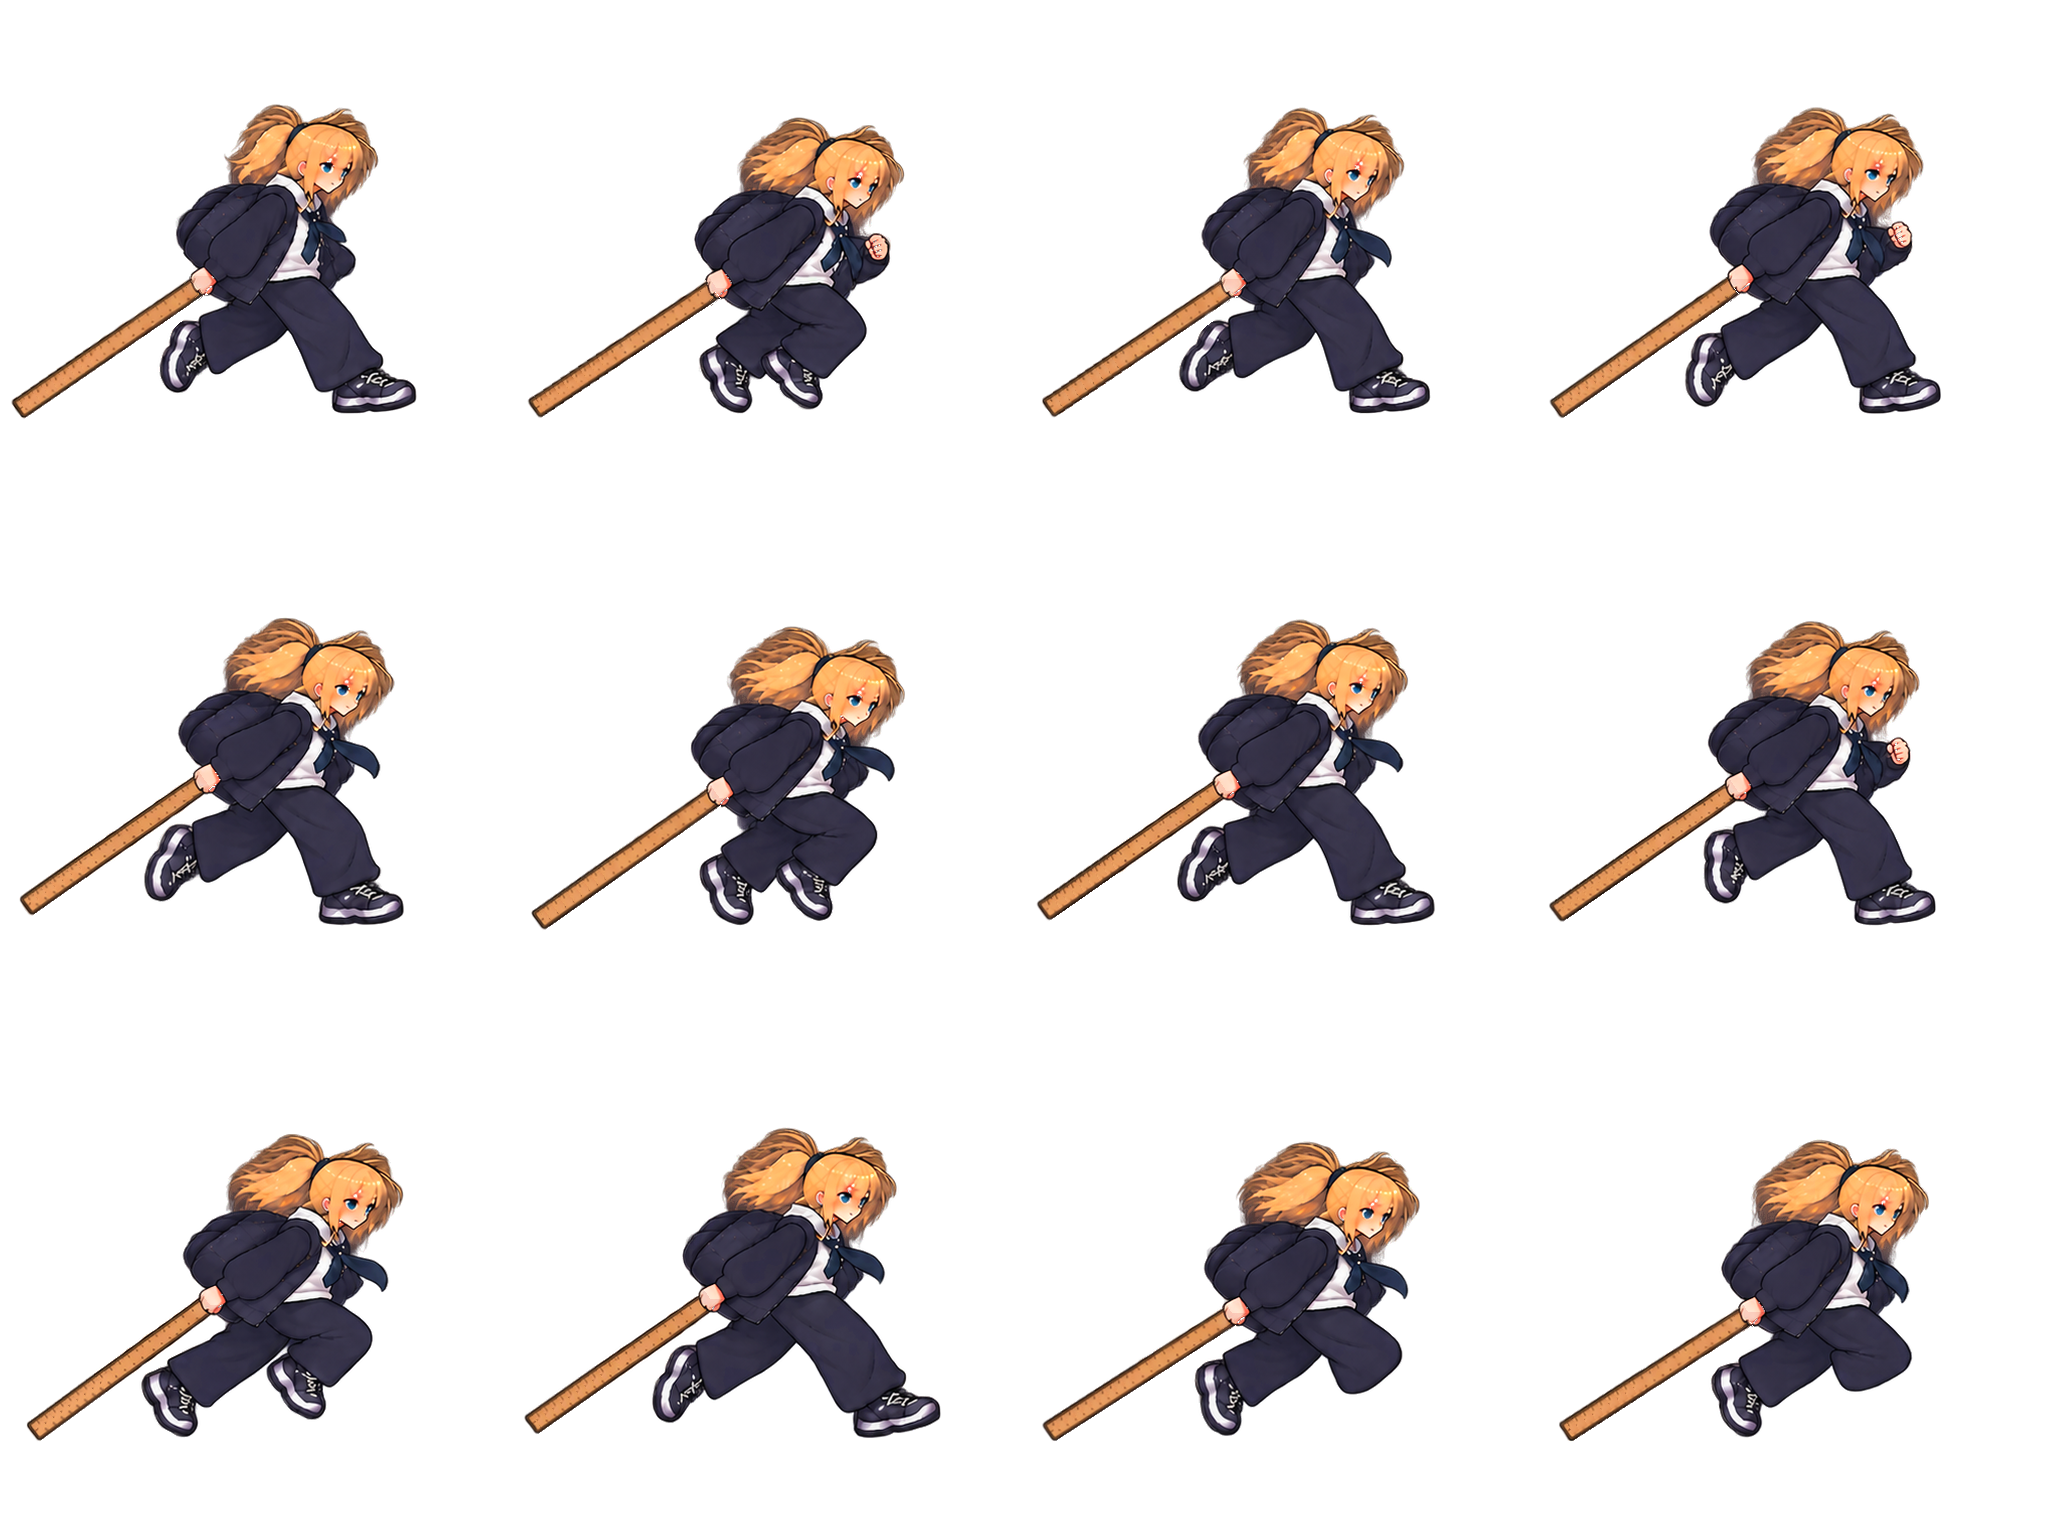
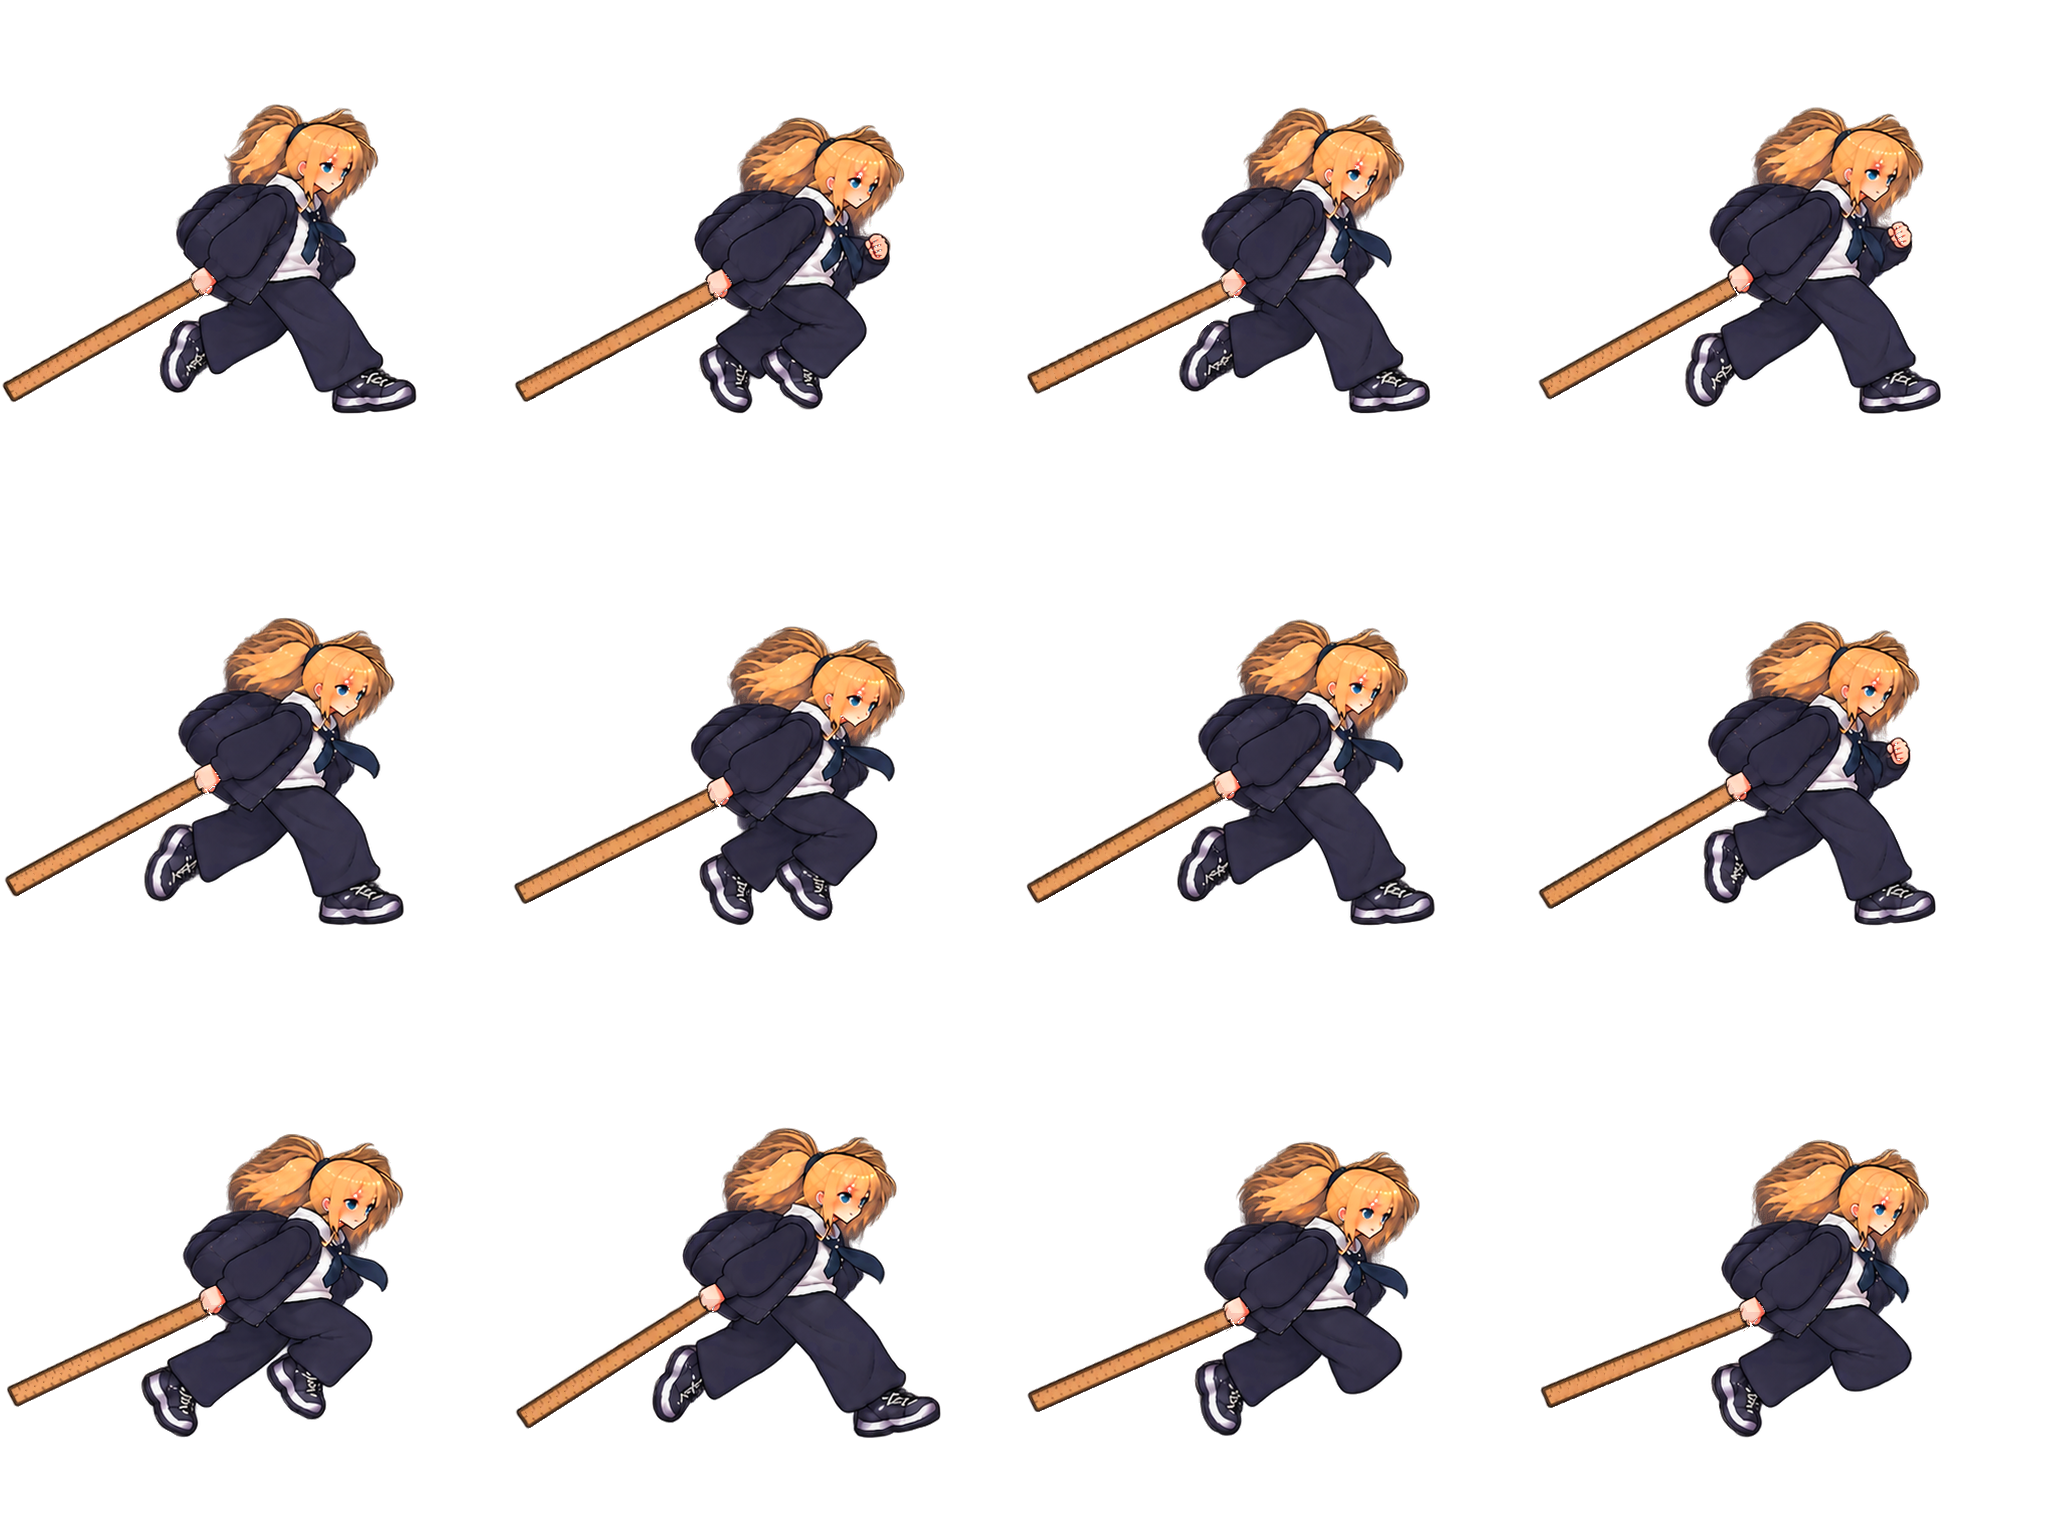
fix: separar la punta de la regla de Luz del suelo en reposo, carrera, giro y frenada
La regla se inclina hacia arriba sobre el agarre hasta dejar 28 texels de
margen con el suelo; cuando la celda no lo permite se relaja el margen y se
informa. Se regeneran las hojas de reposo, carrera y giro.

diff --git a/tools/luz_ruler_length.py b/tools/luz_ruler_length.py
@@ -44,7 +44,8 @@ MAX_TILT = 40.0
 TILT_STEP = 0.5
 EDGE_MARGIN = 2.0
 GRIP_ZONE = 12.0  # texels from the grip where only ruler-coloured pixels are erased
-FLOOR_SLACK = 6.0  # texels the ruler tip may sit below the feet row (~1 world px)
+MIN_CLEARANCE = -10.0  # lowest clearance the relaxation may reach (negative = below the feet row)
+FLOOR_CLEARANCE = 28.0  # texels the whole ruler must stay above the feet row (~4 world px)
 # Working canvas margin around the cell, so an overflow is measured, not clipped.
 CANVAS_MARGIN = 400
 
@@ -209,7 +210,7 @@ def _normalize_once(frame: Image.Image, target: float, label: str) -> tuple[Imag
     """Return (frame with the ruler at `target` texels, info).
 
     The free end is rebuilt along the ruler's own axis. Only when that would leave the
-    cell, or sink the tip below the floor line, the whole ruler is swung about the
+    cell, or come closer than FLOOR_CLEARANCE to the floor line, the whole ruler is swung about the
     grip by the smallest angle that fits (info["tilt"], degrees); a ruler that still
     cannot fit within MAX_TILT leaves the frame unchanged with info["overflow"] set."""
     rgba = np.array(frame.convert("RGBA"))
@@ -247,24 +248,32 @@ def _normalize_once(frame: Image.Image, target: float, label: str) -> tuple[Imag
     )
 
     src = _to_premult(canvas)
-    floor_limit = pch.FEET_ROW + pad + FLOOR_SLACK
     best = None
-    for step in range(int(MAX_TILT / TILT_STEP) + 1):
-        for sign in ((0,) if step == 0 else (1, -1)):
-            theta = sign * step * TILT_STEP
-            d2 = _rotate(ruler.d, theta)
-            n2 = np.array([-d2[1], d2[0]])
-            corners = _rect(grip, d2, n2, target, s_lo, s_hi)
-            if corners[:, 0].min() < pad + EDGE_MARGIN or corners[:, 0].max() > pad + w - EDGE_MARGIN:
-                continue
-            if corners[:, 1].min() < pad + EDGE_MARGIN or corners[:, 1].max() > floor_limit:
-                continue
-            best = (theta, d2, n2)
-            break
-        if best:
-            break
+    clearance = FLOOR_CLEARANCE
+    # Cell bounds are hard. If no angle gives the full clearance, the clearance is
+    # relaxed in 2 texel steps (down to MIN_CLEARANCE) and reported in info["clearance"].
+    while best is None and clearance >= MIN_CLEARANCE:
+        floor_limit = pch.FEET_ROW + pad - clearance
+        for step in range(int(MAX_TILT / TILT_STEP) + 1):
+            for sign in ((0,) if step == 0 else (1, -1)):
+                theta = sign * step * TILT_STEP
+                d2 = _rotate(ruler.d, theta)
+                n2 = np.array([-d2[1], d2[0]])
+                corners = _rect(grip, d2, n2, target, s_lo, s_hi)
+                if corners[:, 0].min() < pad + EDGE_MARGIN or corners[:, 0].max() > pad + w - EDGE_MARGIN:
+                    continue
+                if corners[:, 1].min() < pad + EDGE_MARGIN or corners[:, 1].max() > floor_limit:
+                    continue
+                best = (theta, d2, n2)
+                break
+            if best:
+                break
+        if best is None:
+            clearance -= 2.0
+    info["clearance"] = clearance if best else None
     if best is None:
         # Report the unconstrained overflow measured on the straight extension.
+        floor_limit = pch.FEET_ROW + pad - MIN_CLEARANCE
         corners = _rect(grip, ruler.d, ruler.n, target, s_lo, s_hi)
         info["overflow"] = int(max(0, pad + EDGE_MARGIN - corners[:, 0].min()) + max(0, corners[:, 0].max() - (pad + w - EDGE_MARGIN)) + max(0, corners[:, 1].max() - floor_limit))
         info["overflow"] = max(info["overflow"], 1)

diff --git a/tools/process_luz_run_turn_skid.py b/tools/process_luz_run_turn_skid.py
@@ -269,6 +269,8 @@ def describe_ruler(info: dict) -> str:
     if info.get("overflow"):
         return f"OVERFLOW ({info['overflow']} texels leave the cell; kept at {info['before']:.1f})"
     tilt = f", tilt {info['tilt']:+.1f} deg" if info.get("tilt") else ""
+    if info.get("clearance") is not None and info["clearance"] < rl.FLOOR_CLEARANCE:
+        tilt += f", CLEARANCE ONLY {info['clearance']:.0f}"
     return f"{info['before']:.1f} -> {info['after']:.1f} (period {info['period']:.1f}{tilt})"
 
 

diff --git a/odd/tasks/luz-final.md b/odd/tasks/luz-final.md
@@ -66,7 +66,7 @@ Budget: Luz complete between this week and next, sharing time and Claude/Codex t
 - [x] P4 (A) Remove pogo and ledge hang/climb (code, scenes, tests, manifest clips) without breaking traversal (absorbs C1). Done 2026-10-07: route delegated direct (same writer). Removed the down slash (state flags, `hitbox_down_*`, Pogo group, pogoable layer 5 and POGO_GROUP/LAYER, attack hitbox mask 24 -> 8, touch down-swipe now a no-op), LEDGE_HANG/LEDGE_CLIMB, the Ledge group and the LedgeCheckAbove ray; air attack is horizontal only. Manifest `plunge`/`ledge_*` clips and PNGs left in place (the T5 and sheet processors still read them; the catalog no longer builds them). `tests/pogo_test.gd` deleted, pogo cases removed from enemy_archetypes (-11 checks) and soul_focus, new `case_no_pogo_or_ledge` in combat_test. TRAVERSAL CONSEQUENCE: the medal-alcove pit (Greece, x~2055, floor y 1496) can no longer be climbed out with wall kicks alone: kicks top out ~30 px under the sill (ALCOVE_FLOOR_Y 1330); the ledge grab used to finish it. The pit has spikes that return her to safe ground, so it is not a trap, and a double jump clears it; `greece_layout_test` now checks the kicks reach within 45 px and its bot kicks whenever she clings (the old fixed 0.35 s tap period phase-locked and was flaky). Level heights to review with the team. 12 suites pass. Commit `refactor: quitar el pogo y el agarre de repisa de Luz`.
 - [ ] P5 (A) Jump like the Penitent (M3: ~77 px, apex 0.417 s, symmetric fall, landing crouch); keep double jump; warn the team about level heights.
 - [ ] P6 (A) Ground dash like the Penitent (M4: 4-frame startup, ~400 px/s, 0.33 s, low slide, afterimages in Luz colors); keep air dash coherent.
-- [x] P7 (B) Run v3 and long ruler. Done 2026-10-07: route delegated direct (writer trigger: processor + new module + catalog + VFX). Codex could not draw a consistent long ruler, so `tools/luz_ruler_length.py` lengthens it by script (axis fit, repeats one tick period of the ruler's own body, moves the original end cap); `tools/process_luz_run_turn_skid.py` runs it as the last step of every frame. Target `RULER_TARGET_LENGTH` 215 texels (0.65 x 331.5 = ~31 world px); measured 213.8-215.9 in all 12 run, 7 idle, 2 turn and 8 skid frames. Where the straight extension would leave the 512 cell or sink the tip more than 6 texels under the feet row, the ruler swings about the grip by the smallest angle (up to +16 deg lifting the tip in run/idle/turn/skid; skid slots 4 and 5 swing down 32 and 15 deg because the horizontal ruler does not fit). Turn slot 2 (low pivot) cannot fit (needs ~5 deg more than the 40 deg limit) and is not used: turn = slots 1 and 3. New sheets: run v3b 12 frames (scale 1.0076, bob limited to 14 texels), idle v3 7 frames (slot 3 hair pop dropped), skid slots 4-9 with the sway order 4,5,6,7,8,7,8,9; `hair_match` now lifts the hair of the run and skid slots to the idle luminance (Codex paints it 4-10% darker). Cadence: drawn step (front contact shoe to rear shoe) ~210 texels = 30.4 world px, two steps per 12-frame cycle = 60.8 px, so 150 px/s needs ~29.6 fps; `walk` 13 -> 28 fps (Penitent timing of ~0.58 s per cycle would be ~20.6 fps but then feet slide ~45%). The drawn stance foot barely moves relative to the body in frames 2-4, so some sliding stays; a redraw with a longer stride would fix it. `GroundDust` TAKEOFF now draws two small puffs under the feet plus specks. `tools/preview_luz_clips.py` reads run fps, turn_time and skid times from the project and no longer crops the ruler. Checks: `--import`, `--check-only`, headless boot, 12 suites (combat_test flaked once while a capture ran in parallel, 92/92 on three reruns), `git diff --check`, contact sheets and gameplay capture reviewed by Claude. iPhone check pending (parent).
+- [x] P7 (B) Run v3 and long ruler. Done 2026-10-07: route delegated direct (writer trigger: processor + new module + catalog + VFX). Codex could not draw a consistent long ruler, so `tools/luz_ruler_length.py` lengthens it by script (axis fit, repeats one tick period of the ruler's own body, moves the original end cap); `tools/process_luz_run_turn_skid.py` runs it as the last step of every frame. Target `RULER_TARGET_LENGTH` 215 texels (0.65 x 331.5 = ~31 world px); measured 213.8-215.9 in all 12 run, 7 idle, 2 turn and 8 skid frames. Where the straight extension would leave the 512 cell or sink the tip more than 6 texels under the feet row, the ruler swings about the grip by the smallest angle (up to +16 deg lifting the tip in run/idle/turn/skid; skid slots 4 and 5 swing down 32 and 15 deg because the horizontal ruler does not fit). Turn slot 2 (low pivot) cannot fit (needs ~5 deg more than the 40 deg limit) and is not used: turn = slots 1 and 3. New sheets: run v3b 12 frames (scale 1.0076, bob limited to 14 texels), idle v3 7 frames (slot 3 hair pop dropped), skid slots 4-9 with the sway order 4,5,6,7,8,7,8,9; `hair_match` now lifts the hair of the run and skid slots to the idle luminance (Codex paints it 4-10% darker). Cadence: drawn step (front contact shoe to rear shoe) ~210 texels = 30.4 world px, two steps per 12-frame cycle = 60.8 px, so 150 px/s needs ~29.6 fps; `walk` 13 -> 28 fps (Penitent timing of ~0.58 s per cycle would be ~20.6 fps but then feet slide ~45%). The drawn stance foot barely moves relative to the body in frames 2-4, so some sliding stays; a redraw with a longer stride would fix it. `GroundDust` TAKEOFF now draws two small puffs under the feet plus specks. `tools/preview_luz_clips.py` reads run fps, turn_time and skid times from the project and no longer crops the ruler. Floor clearance fix (parent review, same day): the ruler tip must stay clear of the floor (`FLOOR_CLEARANCE` 28 texels = ~4 world px above the feet row), resolved by swinging the ruler UP about the grip; where the 512 cell makes that impossible the clearance is relaxed in 2 texel steps and reported. Result: idle 21.4-23.6 deg below horizontal, clearance 30-31 texels; run 22.3-32.5 deg, clearance 10-32 (9 of 12 frames below 28, worst 10 texels = 1.4 px, limited by the cell's left edge); turn 20.7-29.2 deg, 11-32; skid 18.5-40.5 deg, 30-49 (slots 4-5 still swing down 32 and 15 deg to fit the cell). Lengths 214.0-218.2. Checks: `--import`, `--check-only`, headless boot, 12 suites (combat_test flaked once while a capture ran in parallel, 92/92 on three reruns), `git diff --check`, contact sheets and gameplay capture reviewed by Claude. iPhone check pending (parent).
 - [ ] P8 (B) Ground combo x3 and crouch attack with the sword grip (two or three Codex requests; absorbs C2 ground part).
 - [ ] P9 (B) Jump/fall/land and a distinct double-jump animation with the sword grip (one Codex request).
 - [ ] P10 (B, if time) Air horizontal and up attacks, dash and wall clips with the sword grip.
